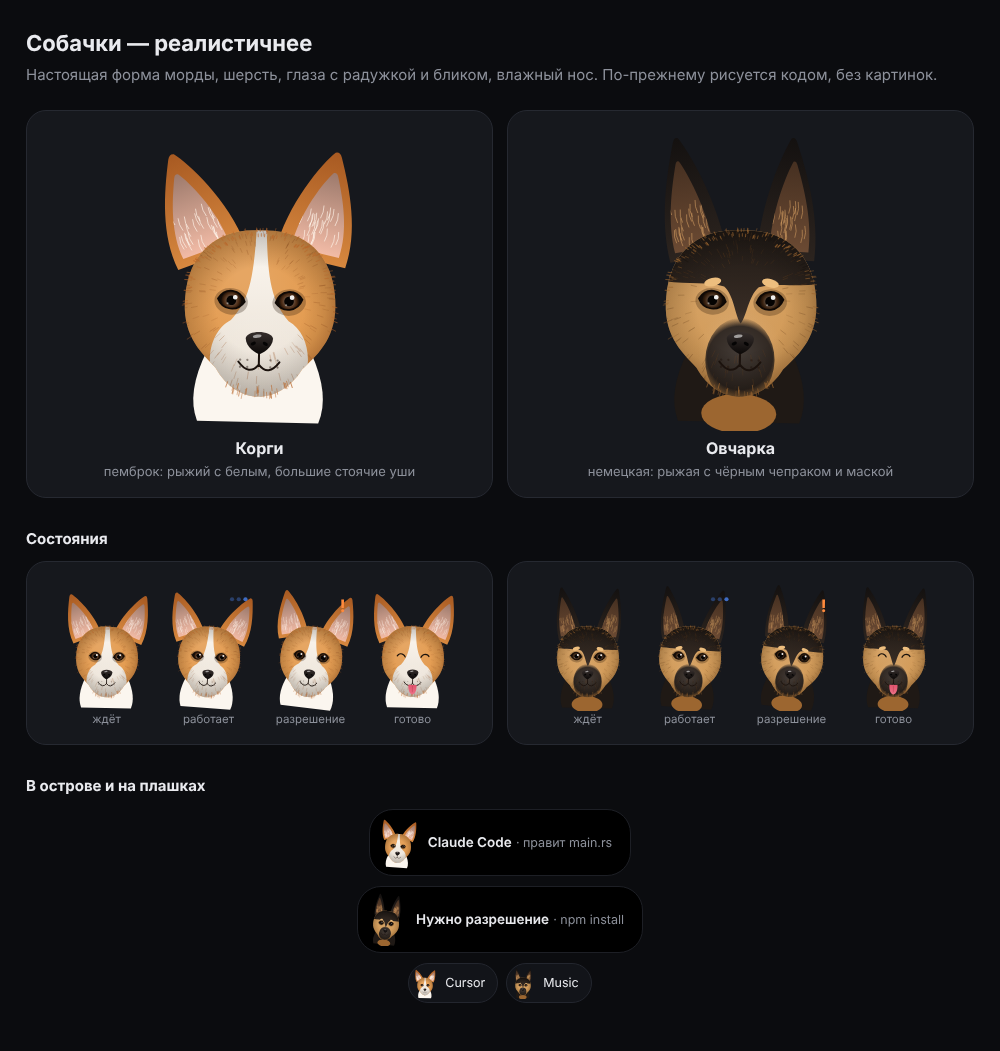
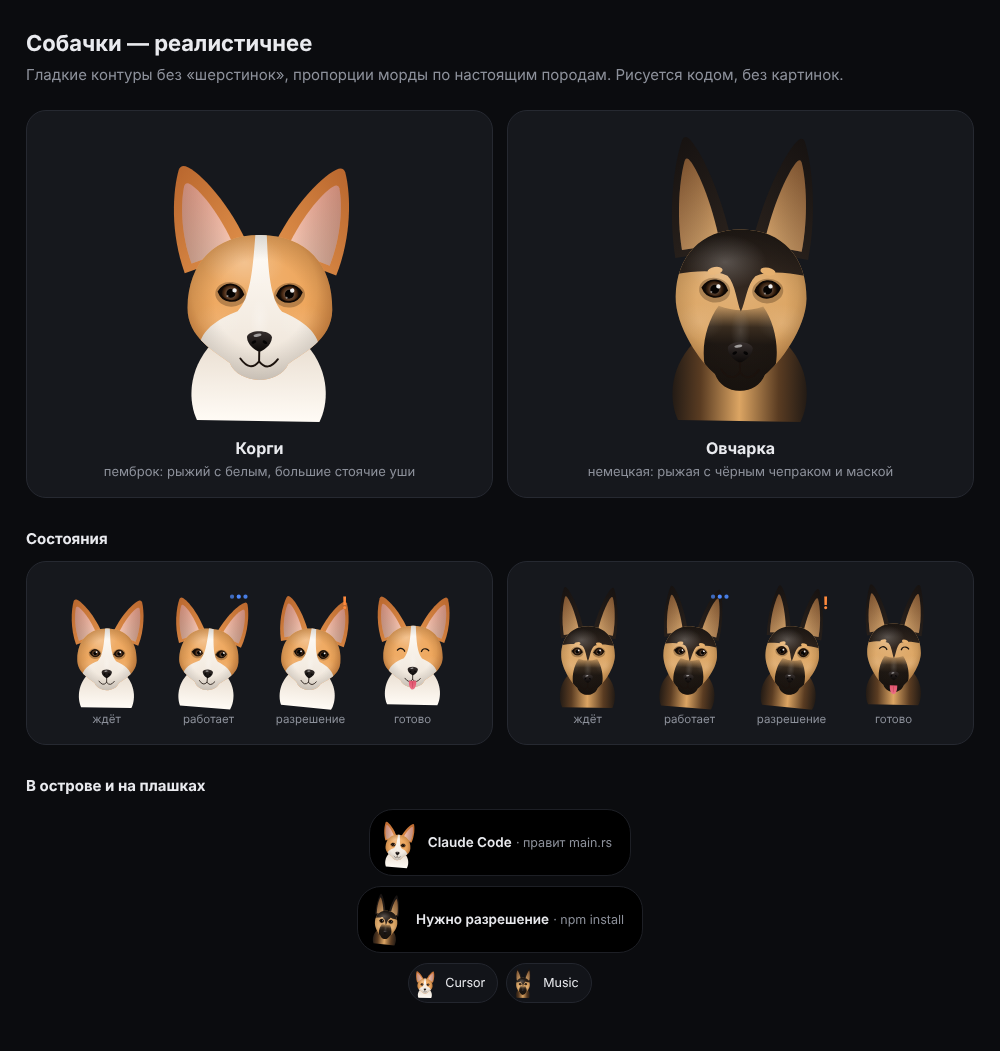
Design: smooth corgi and shepherd, breed proportions, no fur strokes
Claude-Session: https://claude.ai/code/session_01MzrZtsTgRehadqFUtkvhk9

diff --git a/design/dogs-realistic.html b/design/dogs-realistic.html
@@ -32,7 +32,7 @@
 <body>
 <main>
   <h1>Собачки — реалистичнее</h1>
-  <p class="sub">Настоящая форма морды, шерсть, глаза с радужкой и бликом, влажный нос. По-прежнему рисуется кодом, без картинок.</p>
+  <p class="sub">Гладкие контуры без «шерстинок», пропорции морды по настоящим породам. Рисуется кодом, без картинок.</p>
 
   <div class="row">
     <div class="card"><canvas data-dog="corgi" data-size="230"></canvas><h2>Корги</h2><p>пемброк: рыжий с белым, большие стоячие уши</p></div>
@@ -57,94 +57,85 @@
 <script>
 const BREEDS = {
   corgi: {
-    base: ["#E39A4E", "#B8662A"], light: "#FBF6EF", lightShade: "#E6DCCF",
-    earOut: ["#D7883F", "#A85A22"], earIn: "#F2BBA6", earFur: "#FFF4EA",
-    iris: "#4A2A14", fur: "#9C5524", furLight: "#F7C98F",
-    earH: 0.78, earW: 0.5, earTilt: 0.38, earX: 0.34,
+    base: ["#EEA55A", "#BF6B2C"], light: "#FFFBF5", lightShade: "#EADFD2",
+    earOut: ["#E0904A", "#B4612A"], earIn: ["#F6C9B6", "#E7A08C"],
+    iris: "#4A2A14",
+    // Head: wide cheeks, short tapered muzzle; ears big, wide-set, leaning out.
+    head: { top: -0.5, cheekX: 0.52, cheekY: 0.04, muzzleX: 0.21, muzzleY: 0.44, chin: 0.56 },
+    ear: { h: 0.74, w: 0.5, tilt: 0.36, x: 0.31, y: -0.3 },
+    eyeX: 0.21, eyeY: -0.07, noseY: 0.28,
   },
   shepherd: {
-    base: ["#D29A57", "#9C6630"], dark: "#1F1915", darkHi: "#3A2E26", mask: "#2A211B",
-    earOut: ["#2C241F", "#141110"], earIn: "#6B4A33", earFur: "#C9965E",
-    iris: "#3A2210", fur: "#6E4520", furLight: "#EDBE7E",
-    earH: 0.86, earW: 0.4, earTilt: 0.2, earX: 0.3,
+    base: ["#DCA563", "#A46B33"], dark: "#1E1814", darkSoft: "rgba(30,24,20,0)",
+    earOut: ["#2A221D", "#151110"], earIn: ["#D6A66E", "#8E6038"],
+    iris: "#3A2210",
+    // Head: longer wedge, strong muzzle; ears tall, close to upright.
+    head: { top: -0.54, cheekX: 0.47, cheekY: -0.04, muzzleX: 0.18, muzzleY: 0.52, chin: 0.64 },
+    ear: { h: 0.86, w: 0.42, tilt: 0.17, x: 0.27, y: -0.36 },
+    eyeX: 0.19, eyeY: -0.1, noseY: 0.36,
   },
 };
 
-// Fixed pseudo-random numbers, so the fur does not flicker between frames.
-function rng(seed) { let s = seed; return () => (s = (s * 16807) % 2147483647) / 2147483647; }
-
-function headPath(S) {
+function headPath(S, h) {
   const p = new Path2D();
-  p.moveTo(0, -0.56*S);
-  p.bezierCurveTo(0.3*S, -0.58*S, 0.5*S, -0.4*S, 0.52*S, -0.08*S);
-  p.bezierCurveTo(0.54*S, 0.18*S, 0.42*S, 0.3*S, 0.3*S, 0.42*S);
-  p.bezierCurveTo(0.22*S, 0.56*S, 0.1*S, 0.62*S, 0, 0.62*S);
-  p.bezierCurveTo(-0.1*S, 0.62*S, -0.22*S, 0.56*S, -0.3*S, 0.42*S);
-  p.bezierCurveTo(-0.42*S, 0.3*S, -0.54*S, 0.18*S, -0.52*S, -0.08*S);
-  p.bezierCurveTo(-0.5*S, -0.4*S, -0.3*S, -0.58*S, 0, -0.56*S);
+  p.moveTo(0, h.top*S);
+  p.bezierCurveTo(h.cheekX*0.62*S, h.top*S, h.cheekX*S, (h.top + 0.2)*S, h.cheekX*S, h.cheekY*S);
+  p.bezierCurveTo(h.cheekX*S, (h.cheekY + 0.22)*S, (h.muzzleX + 0.1)*S, (h.muzzleY - 0.08)*S, h.muzzleX*S, h.muzzleY*S);
+  p.bezierCurveTo((h.muzzleX - 0.03)*S, (h.chin - 0.04)*S, 0.08*S, h.chin*S, 0, h.chin*S);
+  p.bezierCurveTo(-0.08*S, h.chin*S, -(h.muzzleX - 0.03)*S, (h.chin - 0.04)*S, -h.muzzleX*S, h.muzzleY*S);
+  p.bezierCurveTo(-(h.muzzleX + 0.1)*S, (h.muzzleY - 0.08)*S, -h.cheekX*S, (h.cheekY + 0.22)*S, -h.cheekX*S, h.cheekY*S);
+  p.bezierCurveTo(-h.cheekX*S, (h.top + 0.2)*S, -h.cheekX*0.62*S, h.top*S, 0, h.top*S);
   p.closePath();
   return p;
 }
 
-function earPath(S, b) {
-  const h = b.earH*S, w = b.earW*S, p = new Path2D();
+function earPath(S, e) {
+  const h = e.h*S, w = e.w*S, p = new Path2D();
   p.moveTo(-w/2, 0);
-  p.bezierCurveTo(-w*0.5, -h*0.45, -w*0.16, -h*0.88, -w*0.02, -h);
-  p.quadraticCurveTo(w*0.04, -h*1.02, w*0.08, -h*0.97);
-  p.bezierCurveTo(w*0.3, -h*0.7, w*0.55, -h*0.35, w/2, 0);
+  p.bezierCurveTo(-w*0.46, -h*0.5, -w*0.2, -h*0.9, -w*0.04, -h*0.99);
+  p.quadraticCurveTo(w*0.02, -h*1.02, w*0.07, -h*0.98);
+  p.bezierCurveTo(w*0.26, -h*0.8, w*0.5, -h*0.42, w/2, 0);
   p.closePath();
   return p;
 }
 
-function drawEar(x, S, b, side, lift, rand) {
+function drawEar(x, S, b, side, lift) {
+  const e = b.ear;
   x.save();
-  x.translate(side*b.earX*S, -0.36*S);
-  x.rotate(side*(b.earTilt - lift));
+  x.translate(side*e.x*S, e.y*S);
+  x.rotate(side*(e.tilt - lift));
   x.scale(side, 1);
-  const outer = earPath(S, b);
-  const g = x.createLinearGradient(0, -b.earH*S, 0, 0);
-  g.addColorStop(0, b.earOut[1]); g.addColorStop(1, b.earOut[0]);
+  const outer = earPath(S, e);
+  const g = x.createLinearGradient(-e.w*S/2, 0, e.w*S/2, -e.h*S);
+  g.addColorStop(0, b.earOut[0]); g.addColorStop(1, b.earOut[1]);
   x.fillStyle = g; x.fill(outer);
-  x.save();
-  x.translate(S*0.02, -S*0.06); x.scale(0.68, 0.74);
-  const inner = earPath(S, b);
-  const ig = x.createLinearGradient(0, -b.earH*S, 0, 0);
-  ig.addColorStop(0, shade(b.earIn, -0.35)); ig.addColorStop(1, b.earIn);
+  x.translate(S*0.015, -S*0.05); x.scale(0.66, 0.76);
+  const inner = earPath(S, e);
+  const ig = x.createLinearGradient(0, 0, 0, -e.h*S);
+  ig.addColorStop(0, b.earIn[0]); ig.addColorStop(1, b.earIn[1]);
   x.fillStyle = ig; x.fill(inner);
-  x.clip(inner);
-  x.strokeStyle = b.earFur; x.lineWidth = Math.max(0.6, S*0.008); x.lineCap = "round"; x.globalAlpha = 0.75;
-  for (let i = 0; i < 26; i++) {
-    const px = (rand() - 0.5)*b.earW*S*0.9, py = -rand()*b.earH*S*0.45;
-    x.beginPath(); x.moveTo(px, py); x.quadraticCurveTo(px + S*0.02, py - S*0.06, px + S*0.01*(rand()-0.3), py - S*0.12); x.stroke();
-  }
-  x.restore();
+  // Depth: the inside of the ear is darker towards its outer edge.
+  const dg = x.createLinearGradient(-e.w*S/2, 0, e.w*S/2, 0);
+  dg.addColorStop(0, "rgba(0,0,0,0)"); dg.addColorStop(1, "rgba(60,25,10,0.28)");
+  x.fillStyle = dg; x.fill(inner);
   x.restore();
 }
 
+function softBlob(x, cx, cy, rx, ry, color, alpha, rot = 0) {
+  x.save(); x.translate(cx, cy); x.rotate(rot); x.scale(1, ry/rx);
+  const g = x.createRadialGradient(0, 0, 0, 0, 0, rx);
+  g.addColorStop(0, color.replace("ALPHA", alpha)); g.addColorStop(1, color.replace("ALPHA", 0));
+  x.fillStyle = g; x.beginPath(); x.arc(0, 0, rx, 0, Math.PI*2); x.fill();
+  x.restore();
+}
 function shade(hex, amt) {
   const n = parseInt(hex.slice(1), 16);
   const f = (c) => Math.max(0, Math.min(255, Math.round(c + (amt < 0 ? c*amt : (255 - c)*amt))));
   return `rgb(${f(n >> 16)},${f((n >> 8) & 255)},${f(n & 255)})`;
 }
 
-function furEdge(x, S, path, color, count, rand, len) {
-  x.save();
-  x.strokeStyle = color; x.lineCap = "round"; x.lineWidth = Math.max(0.5, S*0.007);
-  for (let i = 0; i < count; i++) {
-    const a = rand()*Math.PI*2, r = 0.5 + rand()*0.06;
-    const px = Math.cos(a)*r*S, py = Math.sin(a)*r*S*1.05 + 0.02*S;
-    const dp = x.getTransform().transformPoint(new DOMPoint(px, py));
-    if (!x.isPointInPath(path, dp.x, dp.y)) continue;
-    x.globalAlpha = 0.35 + rand()*0.4;
-    x.beginPath(); x.moveTo(px, py);
-    x.lineTo(px + Math.cos(a)*S*len, py + Math.sin(a)*S*len + S*0.01);
-    x.stroke();
-  }
-  x.restore();
-}
-
 function eye(x, S, b, side, state, blink, look) {
-  const ex = side*0.2*S, ey = -0.06*S, r = 0.075*S;
+  const ex = side*b.eyeX*S, ey = b.eyeY*S, r = 0.072*S;
   x.save(); x.translate(ex, ey); x.rotate(side*-0.12);
   if (state === "finished") {
     x.strokeStyle = "#1A120C"; x.lineWidth = S*0.022; x.lineCap = "round";
@@ -174,8 +165,8 @@ function eye(x, S, b, side, state, blink, look) {
   x.restore();
 }
 
-function nose(x, S, state) {
-  const ny = 0.24*S, w = 0.19*S;
+function nose(x, S, b, state) {
+  const ny = b.noseY*S, w = 0.18*S;
   const p = new Path2D();
   p.moveTo(-w/2, ny - w*0.18);
   p.bezierCurveTo(-w*0.45, ny - w*0.5, w*0.45, ny - w*0.5, w/2, ny - w*0.18);
@@ -205,117 +196,115 @@ function nose(x, S, state) {
   }
 }
 
+
 function draw(c, dog, state, t) {
   const b = BREEDS[dog], size = +c.dataset.size, dpr = devicePixelRatio || 1;
   const W = size, H = Math.round(size*1.32);
   if (c.width !== Math.round(W*dpr)) { c.width = W*dpr; c.height = H*dpr; c.style.width = W+"px"; c.style.height = H+"px"; }
   const x = c.getContext("2d"); x.setTransform(dpr,0,0,dpr,0,0); x.clearRect(0,0,W,H);
-  const S = size*0.62;
-  const tiny = size < 50;
-  const rand = rng(dog === "corgi" ? 7 : 11);
+  const S = size*0.6, tiny = size < 50;
 
-  const breathe = Math.sin(t*2 + size)*0.012;
-  const tilt = state === "working" ? Math.sin(t*0.9)*0.08 : state === "approval" ? 0.12 : Math.sin(t*0.5)*0.025;
+  const breathe = Math.sin(t*2 + size)*0.01;
+  const tilt = state === "working" ? Math.sin(t*0.9)*0.08 : state === "approval" ? 0.1 : Math.sin(t*0.5)*0.02;
   const hop = state === "finished" ? -Math.abs(Math.sin(t*4.5))*S*0.05 : 0;
-  x.translate(W/2, H*0.6 + hop); x.rotate(tilt); x.scale(1 + breathe, 1 - breathe);
+  x.translate(W/2, H*0.58 + hop); x.rotate(tilt); x.scale(1 + breathe, 1 - breathe);
 
-  // Neck and chest under the head.
+  // Chest.
   const chest = new Path2D();
-  chest.moveTo(-0.36*S, 0.3*S); chest.quadraticCurveTo(-0.5*S, 0.6*S, -0.42*S, 0.8*S);
-  chest.lineTo(0.42*S, 0.8*S); chest.quadraticCurveTo(0.5*S, 0.6*S, 0.36*S, 0.3*S); chest.closePath();
-  x.fillStyle = dog === "corgi" ? b.light : b.dark; x.fill(chest);
-  if (dog === "shepherd") { x.fillStyle = b.base[1]; x.beginPath(); x.ellipse(0, 0.74*S, 0.26*S, 0.14*S, 0, 0, Math.PI*2); x.fill(); }
+  chest.moveTo(-0.34*S, 0.3*S);
+  chest.bezierCurveTo(-0.52*S, 0.5*S, -0.5*S, 0.74*S, -0.44*S, 0.86*S);
+  chest.lineTo(0.44*S, 0.86*S);
+  chest.bezierCurveTo(0.5*S, 0.74*S, 0.52*S, 0.5*S, 0.34*S, 0.3*S); chest.closePath();
+  if (dog === "corgi") {
+    const cg = x.createLinearGradient(0, 0.3*S, 0, 0.86*S);
+    cg.addColorStop(0, b.lightShade); cg.addColorStop(1, b.light);
+    x.fillStyle = cg; x.fill(chest);
+  } else {
+    const cg = x.createLinearGradient(-0.5*S, 0, 0.5*S, 0);
+    cg.addColorStop(0, b.dark); cg.addColorStop(0.22, "#5A3C22"); cg.addColorStop(0.5, b.base[0]);
+    cg.addColorStop(0.78, "#5A3C22"); cg.addColorStop(1, b.dark);
+    x.fillStyle = cg; x.fill(chest);
+  }
 
   const twitchCycle = (t*0.6 + size*0.05) % 4.2;
-  const twitch = twitchCycle < 0.3 ? Math.sin(twitchCycle/0.3*Math.PI)*0.16 : 0;
-  const lift = state === "approval" ? 0.12 : 0;
-  drawEar(x, S, b, -1, lift, rng(3));
-  drawEar(x, S, b, 1, lift + twitch, rng(5));
+  const twitch = twitchCycle < 0.3 ? Math.sin(twitchCycle/0.3*Math.PI)*0.14 : 0;
+  const lift = state === "approval" ? 0.1 : 0;
+  drawEar(x, S, b, -1, lift);
+  drawEar(x, S, b, 1, lift + twitch);
 
-  const head = headPath(S);
-  const hg = x.createRadialGradient(-0.12*S, -0.25*S, S*0.05, 0, 0, S*0.75);
-  hg.addColorStop(0, shade(b.base[0], 0.12)); hg.addColorStop(0.65, b.base[0]); hg.addColorStop(1, b.base[1]);
+  const head = headPath(S, b.head);
+  const hg = x.createRadialGradient(-0.1*S, -0.24*S, S*0.04, 0, 0, S*0.72);
+  hg.addColorStop(0, shade(b.base[0], 0.14)); hg.addColorStop(0.6, b.base[0]); hg.addColorStop(1, b.base[1]);
   x.fillStyle = hg; x.fill(head);
 
   x.save(); x.clip(head);
   if (dog === "corgi") {
-    const blaze = new Path2D();
-    blaze.moveTo(-0.035*S, -0.56*S); blaze.lineTo(0.035*S, -0.56*S);
-    blaze.bezierCurveTo(0.05*S, -0.2*S, 0.08*S, -0.06*S, 0.2*S, 0.08*S);
-    blaze.bezierCurveTo(0.42*S, 0.2*S, 0.4*S, 0.7*S, 0, 0.7*S);
-    blaze.bezierCurveTo(-0.4*S, 0.7*S, -0.42*S, 0.2*S, -0.2*S, 0.08*S);
-    blaze.bezierCurveTo(-0.08*S, -0.06*S, -0.05*S, -0.2*S, -0.035*S, -0.56*S);
+    // White blaze: narrow between the eyes, opening onto the muzzle, cheeks and chin.
+    const w = new Path2D();
+    w.moveTo(-0.04*S, -0.52*S); w.lineTo(0.04*S, -0.52*S);
+    w.bezierCurveTo(0.055*S, -0.24*S, 0.07*S, -0.04*S, 0.16*S, 0.06*S);
+    w.bezierCurveTo(0.3*S, 0.12*S, 0.44*S, 0.2*S, 0.44*S, 0.38*S);
+    w.bezierCurveTo(0.44*S, 0.62*S, 0.2*S, 0.7*S, 0, 0.7*S);
+    w.bezierCurveTo(-0.2*S, 0.7*S, -0.44*S, 0.62*S, -0.44*S, 0.38*S);
+    w.bezierCurveTo(-0.44*S, 0.2*S, -0.3*S, 0.12*S, -0.16*S, 0.06*S);
+    w.bezierCurveTo(-0.07*S, -0.04*S, -0.055*S, -0.24*S, -0.04*S, -0.52*S);
+    w.closePath();
     const wg = x.createLinearGradient(0, -0.5*S, 0, 0.7*S);
     wg.addColorStop(0, b.light); wg.addColorStop(1, b.lightShade);
-    x.fillStyle = wg; x.fill(blaze);
-    furEdge(x, S, blaze, b.light, 140, rand, 0.035);
+    x.fillStyle = wg; x.fill(w);
   } else {
-    // Black saddle from the crown, a widow's peak between the eyes, the black mask on the muzzle.
+    // Black saddle from the crown with a peak between the eyes.
     const cap = new Path2D();
-    cap.moveTo(-0.6*S, -0.7*S); cap.lineTo(0.6*S, -0.7*S); cap.lineTo(0.6*S, -0.2*S);
-    cap.bezierCurveTo(0.4*S, -0.16*S, 0.24*S, -0.2*S, 0.12*S, -0.16*S);
-    cap.bezierCurveTo(0.05*S, -0.1*S, 0.04*S, 0.05*S, 0, 0.1*S);
-    cap.bezierCurveTo(-0.04*S, 0.05*S, -0.05*S, -0.1*S, -0.12*S, -0.16*S);
-    cap.bezierCurveTo(-0.24*S, -0.2*S, -0.4*S, -0.16*S, -0.6*S, -0.2*S); cap.closePath();
-    const cg = x.createLinearGradient(0, -0.6*S, 0, 0.1*S);
-    cg.addColorStop(0, b.dark); cg.addColorStop(1, b.darkHi);
+    cap.moveTo(-0.7*S, -0.8*S); cap.lineTo(0.7*S, -0.8*S); cap.lineTo(0.7*S, -0.16*S);
+    cap.bezierCurveTo(0.42*S, -0.22*S, 0.22*S, -0.26*S, 0.1*S, -0.2*S);
+    cap.bezierCurveTo(0.04*S, -0.14*S, 0.03*S, 0.0, 0, 0.06*S);
+    cap.bezierCurveTo(-0.03*S, 0.0, -0.04*S, -0.14*S, -0.1*S, -0.2*S);
+    cap.bezierCurveTo(-0.22*S, -0.26*S, -0.42*S, -0.22*S, -0.7*S, -0.16*S); cap.closePath();
+    const cg = x.createLinearGradient(0, -0.6*S, 0, 0.06*S);
+    cg.addColorStop(0, b.dark); cg.addColorStop(1, "#3A2D24");
     x.fillStyle = cg; x.fill(cap);
-    furEdge(x, S, cap, b.dark, 120, rand, 0.04);
+    // Tan brow spots.
+    x.fillStyle = "#E6B06E";
+    for (const sd of [-1, 1]) { x.beginPath(); x.ellipse(sd*0.19*S, -0.235*S, 0.055*S, 0.028*S, sd*0.2, 0, Math.PI*2); x.fill(); }
+    // Black mask over the muzzle, fading into the tan cheeks.
     const mask = new Path2D();
-    mask.ellipse(0, 0.36*S, 0.24*S, 0.3*S, 0, 0, Math.PI*2);
-    const mg = x.createRadialGradient(0, 0.3*S, 0, 0, 0.36*S, 0.3*S);
-    mg.addColorStop(0, b.mask); mg.addColorStop(0.75, b.mask); mg.addColorStop(1, "rgba(42,33,27,0)");
+    mask.moveTo(-0.16*S, 0.02*S);
+    mask.bezierCurveTo(-0.26*S, 0.16*S, -0.3*S, 0.4*S, -0.22*S, 0.56*S);
+    mask.bezierCurveTo(-0.14*S, 0.7*S, 0.14*S, 0.7*S, 0.22*S, 0.56*S);
+    mask.bezierCurveTo(0.3*S, 0.4*S, 0.26*S, 0.16*S, 0.16*S, 0.02*S);
+    mask.quadraticCurveTo(0, 0.08*S, -0.16*S, 0.02*S); mask.closePath();
+    const mg = x.createLinearGradient(0, 0.02*S, 0, 0.3*S);
+    mg.addColorStop(0, "rgba(28,22,18,0.15)"); mg.addColorStop(0.55, "rgba(28,22,18,0.85)"); mg.addColorStop(1, "rgba(24,19,16,0.97)");
     x.fillStyle = mg; x.fill(mask);
-    x.fillStyle = b.furLight;
-    for (const sd of [-1, 1]) { x.beginPath(); x.ellipse(sd*0.2*S, -0.19*S, 0.06*S, 0.03*S, sd*0.25, 0, Math.PI*2); x.fill(); }
   }
-  // Muzzle volume and fur.
-  const mz = x.createRadialGradient(0, 0.3*S, 0, 0, 0.3*S, 0.3*S);
-  mz.addColorStop(0, "rgba(255,255,255,0.12)"); mz.addColorStop(1, "rgba(255,255,255,0)");
-  x.fillStyle = mz; x.beginPath(); x.arc(0, 0.3*S, 0.3*S, 0, Math.PI*2); x.fill();
-  if (!tiny) {
-    x.strokeStyle = b.fur; x.lineCap = "round"; x.lineWidth = Math.max(0.5, S*0.006);
-    for (let i = 0; i < 160; i++) {
-      const a = rand()*Math.PI*2, r = (0.3 + rand()*0.25)*S;
-      const px = Math.cos(a)*r, py = Math.sin(a)*r*1.05;
-      x.globalAlpha = 0.18 + rand()*0.2;
-      x.beginPath(); x.moveTo(px, py); x.lineTo(px + Math.cos(a)*S*0.04, py + Math.sin(a)*S*0.04 + S*0.01); x.stroke();
-    }
-    x.globalAlpha = 1;
-    // Whisker dots.
-    x.fillStyle = "rgba(30,18,10,0.45)";
-    for (const sd of [-1, 1]) for (let i = 0; i < 4; i++) {
-      x.beginPath(); x.arc(sd*(0.08 + (i % 2)*0.05)*S, (0.36 + Math.floor(i/2)*0.05)*S, S*0.008, 0, Math.PI*2); x.fill();
-    }
-  }
-  // Soft shadow at the edge for roundness.
-  const vg = x.createRadialGradient(0, 0, S*0.3, 0, 0.05*S, S*0.66);
-  vg.addColorStop(0, "rgba(0,0,0,0)"); vg.addColorStop(1, "rgba(0,0,0,0.28)");
+  // Volume: forehead and cheek light, muzzle bridge highlight, edge shade.
+  softBlob(x, -0.12*S, -0.3*S, 0.3*S, 0.2*S, "rgba(255,255,255,ALPHA)", 0.22);
+  softBlob(x, 0, b.noseY*S - 0.16*S, 0.07*S, 0.16*S, "rgba(255,255,255,ALPHA)", dog === "corgi" ? 0.25 : 0.12);
+  for (const sd of [-1, 1]) softBlob(x, sd*0.3*S, 0.14*S, 0.18*S, 0.14*S, "rgba(255,255,255,ALPHA)", 0.1);
+  const vg = x.createRadialGradient(0, 0, S*0.32, 0, 0.04*S, S*0.68);
+  vg.addColorStop(0, "rgba(0,0,0,0)"); vg.addColorStop(1, "rgba(0,0,0,0.26)");
   x.fillStyle = vg; x.fill(head);
   x.restore();
-
-  // Fur fringe outside the outline.
-  if (!tiny) furEdge(x, S, head, b.base[1], 220, rng(13), 0.03);
 
   const blinkPhase = (t + size*0.07) % 4;
   const blink = blinkPhase < 0.16 ? Math.sin(blinkPhase/0.16*Math.PI) : 0;
   const look = state === "working" ? Math.sin(t*1.3) : 0;
   eye(x, S, b, -1, state, blink, look);
   eye(x, S, b, 1, state, blink, look);
-  nose(x, S, state);
+  nose(x, S, b, state);
 
   if (state === "working" && !tiny) {
     x.setTransform(dpr,0,0,dpr,0,0);
     x.fillStyle = "#4F8BFF";
     for (let i = 0; i < 3; i++) {
       x.globalAlpha = 0.35 + 0.65*Math.max(0, Math.sin(t*5 - i*0.8));
-      x.beginPath(); x.arc(W*0.74 + i*W*0.07, H*0.12, W*0.022, 0, Math.PI*2); x.fill();
+      x.beginPath(); x.arc(W*0.74 + i*W*0.07, H*0.1, W*0.022, 0, Math.PI*2); x.fill();
     }
     x.globalAlpha = 1;
   }
   if (state === "approval" && !tiny) {
     x.setTransform(dpr,0,0,dpr,0,0);
-    x.fillStyle = "#FF8A3D"; x.font = `700 ${W*0.18}px system-ui`; x.fillText("!", W*0.8, H*0.22);
+    x.fillStyle = "#FF8A3D"; x.font = `700 ${W*0.18}px system-ui`; x.fillText("!", W*0.82, H*0.2);
   }
 }
 
